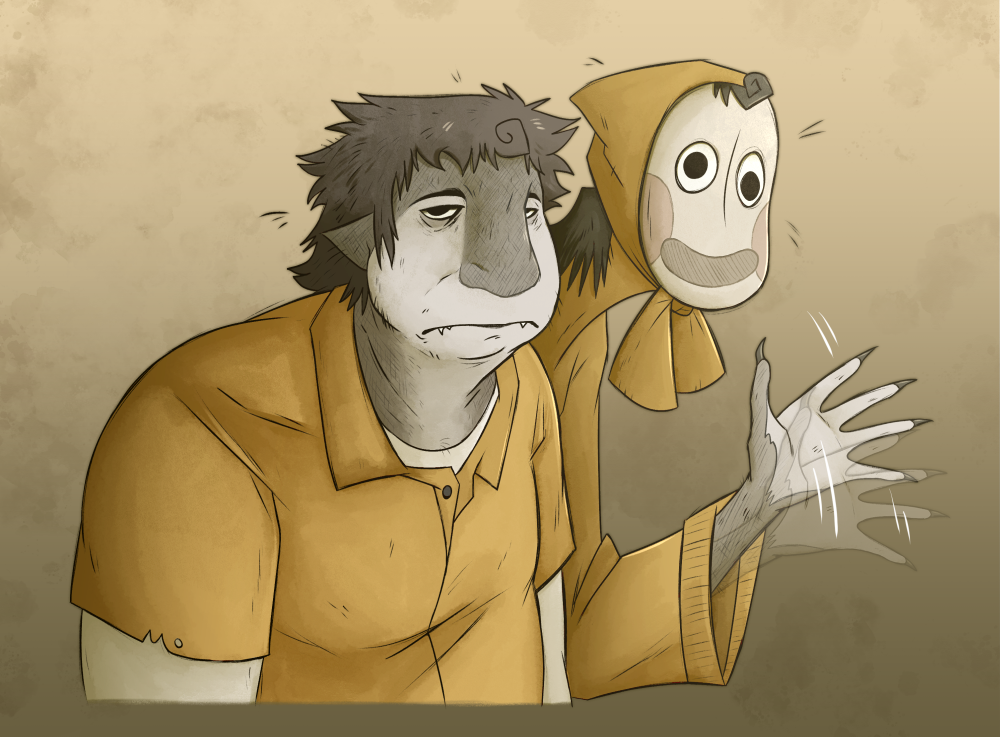
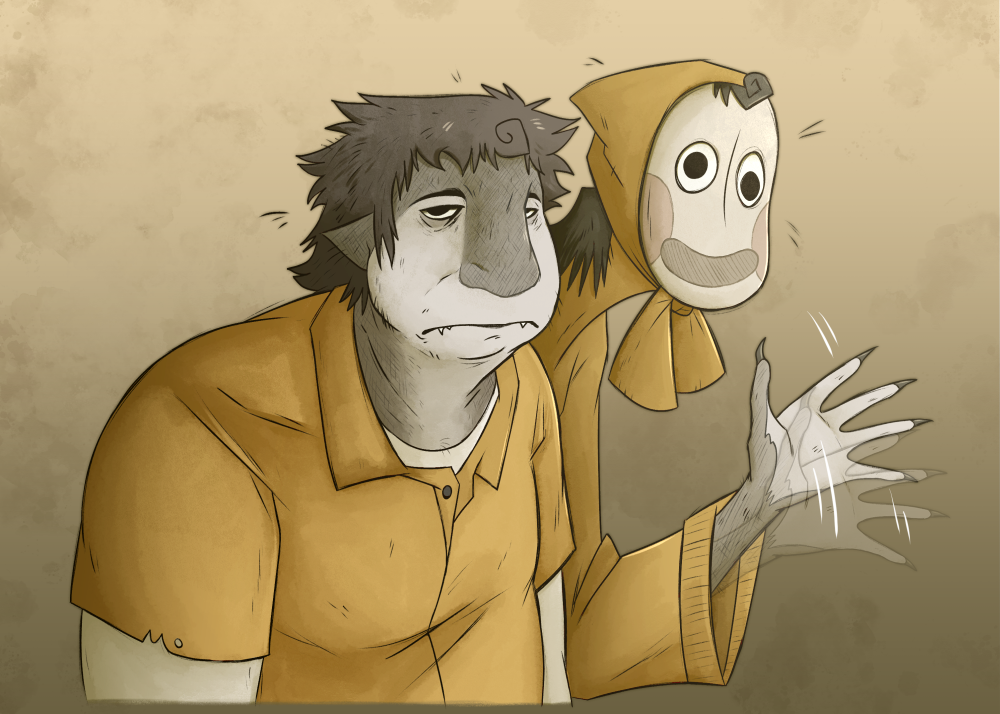
Uploads

Changed region(s): [[0.062, 0.0616, 0.93, 1.0], [0.589, 0.0616, 0.651, 0.1232], [0.775, 0.1541, 0.837, 0.1849]]

diff --git a/illustration.html b/illustration.html
@@ -134,8 +134,8 @@
           </article>
 
           <article class="gallery-card">
-            <a href="https://github.com/PalmettoPeril/Benji-DeMay-Portfolio/blob/main/Illustration_Pieces/Background_Illustration/B_DeMay_BottomFeeder_BG_3.png?raw=true" class="lightbox-trigger">
-              <img src="https://github.com/PalmettoPeril/Benji-DeMay-Portfolio/blob/main/Illustration_Pieces/Background_Illustration/B_DeMay_BottomFeeder_BG_3.png?raw=true" alt="BottomFeeder Background 3" />
+            <a href="https://github.com/PalmettoPeril/Benji-DeMay-Portfolio/blob/main/Illustration_Pieces/Background_Illustration/B_DeMay_BottomFeeder_BG_5.png?raw=true" class="lightbox-trigger">
+              <img src="https://github.com/PalmettoPeril/Benji-DeMay-Portfolio/blob/main/Illustration_Pieces/Background_Illustration/B_DeMay_BottomFeeder_BG_5.png?raw=true" alt="BottomFeeder Background 5" />
             </a>
           </article>
 
@@ -166,6 +166,12 @@
           <article class="gallery-card">
             <a href="https://github.com/PalmettoPeril/Benji-DeMay-Portfolio/blob/main/Illustration_Pieces/Background_Illustration/B_DeMay_MyHouse_Attic.png?raw=true" class="lightbox-trigger">
               <img src="https://github.com/PalmettoPeril/Benji-DeMay-Portfolio/blob/main/Illustration_Pieces/Background_Illustration/B_DeMay_MyHouse_Attic.png?raw=true" alt="MyHouse.WAD Attic" />
+            </a>
+          </article>
+
+          <article class="gallery-card">
+            <a href="https://github.com/PalmettoPeril/Benji-DeMay-Portfolio/blob/main/Illustration_Pieces/Background_Illustration/B_DeMay_BottomFeeder_BG_3.png?raw=true" class="lightbox-trigger">
+              <img src="https://github.com/PalmettoPeril/Benji-DeMay-Portfolio/blob/main/Illustration_Pieces/Background_Illustration/B_DeMay_BottomFeeder_BG_3.png?raw=true" alt="BottomFeeder Background 3" />
             </a>
           </article>
 

diff --git a/styles.css b/styles.css
@@ -162,13 +162,19 @@ button {
   width: 200px;
   height: 200px;
   border-radius: 50%;
+  overflow: hidden;
   background: linear-gradient(135deg, #f2c3a4, #d5785f);
-  color: #1b1414;
   display: grid;
   place-items: center;
-  font-weight: 800;
-  letter-spacing: 0.08em;
   box-shadow: inset 0 0 0 2px rgba(255, 255, 255, 0.28);
+}
+
+.avatar img {
+  width: 100%;
+  height: 100%;
+  object-fit: cover;
+  object-position: center;
+  display: block;
 }
 
 .avatar.small {
